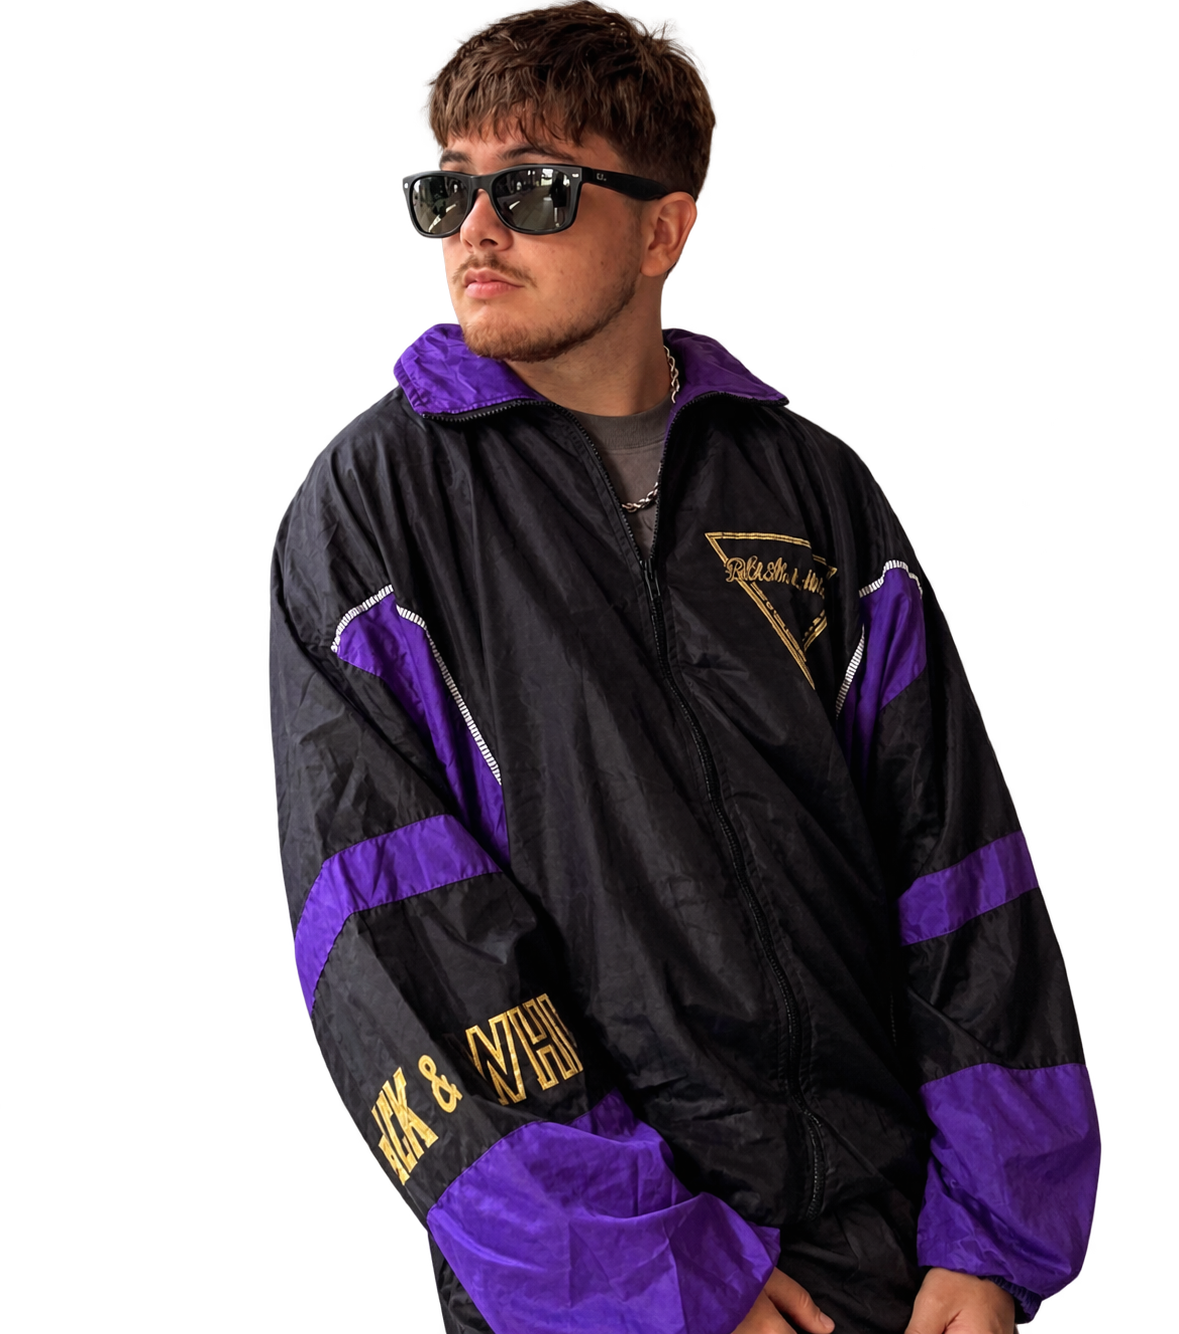
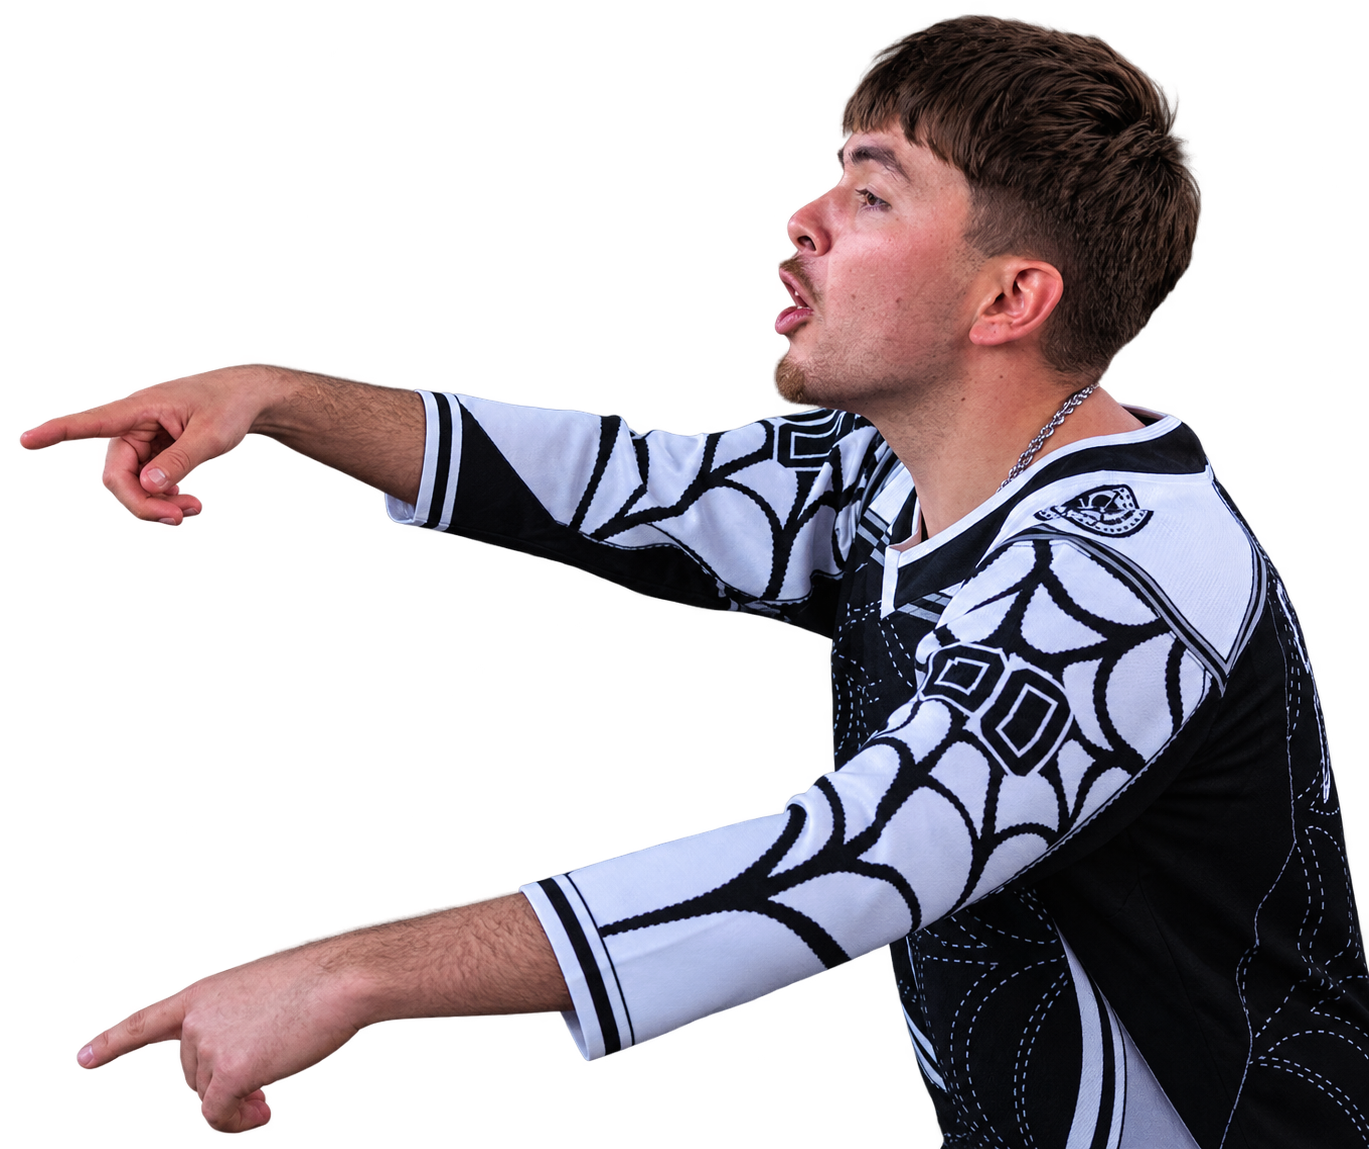
Add files via upload

diff --git a/index.html b/index.html
@@ -278,8 +278,8 @@
                 <span class="material-symbols-outlined text-[14px]">radio_button_unchecked</span> VOTO
               </span>
             </div>
-            <div class="relative w-full h-48 my-unit-sm flex items-end justify-center overflow-hidden rounded-lg bg-surface-container-lowest pt-2">
-              <img src="./Xiro_Silueta2.png" alt="Xiro" class="w-full h-full object-cover">
+            <div class="relative w-full h-auto sm:h-48 my-unit-sm flex items-end justify-center overflow-hidden rounded-lg bg-surface-container-lowest pt-2">
+              <img src="./Xiro_Silueta2.png" alt="Xiro" class="w-full h-full object-contain sm:object-cover">
             </div>
             <div class="relative z-10">
               <h3 class="font-headline-lg text-headline-lg text-primary uppercase tracking-wide">Xiro</h3>
@@ -295,8 +295,8 @@
                 <span class="material-symbols-outlined text-[14px]">radio_button_unchecked</span> VOTO
               </span>
             </div>
-            <div class="relative w-full h-48 my-unit-sm flex items-end justify-center overflow-hidden rounded-lg bg-surface-container-lowest pt-2">
-              <img src="./NachoRG_Silueta2.png" alt="Nacho RG" class="w-full h-full object-cover">
+            <div class="relative w-full h-auto sm:h-48 my-unit-sm flex items-end justify-center overflow-hidden rounded-lg bg-surface-container-lowest pt-2">
+              <img src="./NachoRG_Silueta2.png" alt="Nacho RG" class="w-full h-full object-contain sm:object-cover">
             </div>
             <div class="relative z-10">
               <h3 class="font-headline-lg text-headline-lg text-primary uppercase tracking-wide">Nacho RG</h3>
@@ -312,8 +312,8 @@
                 <span class="material-symbols-outlined text-[14px]">radio_button_unchecked</span> VOTO
               </span>
             </div>
-            <div class="relative w-full h-48 my-unit-sm flex items-end justify-center overflow-hidden rounded-lg bg-surface-container-lowest pt-2">
-              <img src="./Binario_Silueta.png" alt="BINARIO" class="w-full h-full object-cover">
+            <div class="relative w-full h-auto sm:h-48 my-unit-sm flex items-end justify-center overflow-hidden rounded-lg bg-surface-container-lowest pt-2">
+              <img src="./Binario_Silueta.png" alt="BINARIO" class="w-full h-full object-contain sm:object-cover">
             </div>
             <div class="relative z-10">
               <h3 class="font-headline-lg text-headline-lg text-primary uppercase tracking-wide">BINARIO</h3>
@@ -329,8 +329,8 @@
                 <span class="material-symbols-outlined text-[14px]">radio_button_unchecked</span> VOTO
               </span>
             </div>
-            <div class="relative w-full h-48 my-unit-sm flex items-end justify-center overflow-hidden rounded-lg bg-surface-container-lowest pt-2">
-              <img src="./Teno_Silueta2.png" alt="TENO" class="w-full h-full object-cover">
+            <div class="relative w-full h-auto sm:h-48 my-unit-sm flex items-end justify-center overflow-hidden rounded-lg bg-surface-container-lowest pt-2">
+              <img src="./Teno_Silueta2.png" alt="TENO" class="w-full h-full object-contain sm:object-cover">
             </div>
             <div class="relative z-10">
               <h3 class="font-headline-lg text-headline-lg text-primary uppercase tracking-wide">TENO</h3>
@@ -346,8 +346,8 @@
                 <span class="material-symbols-outlined text-[14px]">radio_button_unchecked</span> VOTO
               </span>
             </div>
-            <div class="relative w-full h-48 my-unit-sm flex items-end justify-center overflow-hidden rounded-lg bg-surface-container-lowest pt-2">
-              <img src="./Guspi_Silueta2.png" alt="GUSPI" class="w-full h-full object-cover">
+            <div class="relative w-full h-auto sm:h-48 my-unit-sm flex items-end justify-center overflow-hidden rounded-lg bg-surface-container-lowest pt-2">
+              <img src="./Guspi_Silueta2.png" alt="GUSPI" class="w-full h-full object-contain sm:object-cover">
             </div>
             <div class="relative z-10">
               <h3 class="font-headline-lg text-headline-lg text-primary uppercase tracking-wide">GUSPI</h3>
@@ -363,8 +363,8 @@
                 <span class="material-symbols-outlined text-[14px]">radio_button_unchecked</span> VOTO
               </span>
             </div>
-            <div class="relative w-full h-48 my-unit-sm flex items-end justify-center overflow-hidden rounded-lg bg-surface-container-lowest pt-2">
-              <img src="" alt="AFE" class="w-full h-full object-cover">
+            <div class="relative w-full h-auto sm:h-48 my-unit-sm flex items-end justify-center overflow-hidden rounded-lg bg-surface-container-lowest pt-2">
+              <img src="" alt="AFE" class="w-full h-full object-contain sm:object-cover">
             </div>
             <div class="relative z-10">
               <h3 class="font-headline-lg text-headline-lg text-primary uppercase tracking-wide">AFE</h3>
@@ -380,8 +380,8 @@
                 <span class="material-symbols-outlined text-[14px]">radio_button_unchecked</span> VOTO
               </span>
             </div>
-            <div class="relative w-full h-48 my-unit-sm flex items-end justify-center overflow-hidden rounded-lg bg-surface-container-lowest pt-2">
-              <img src="" alt="SILENCE" class="w-full h-full object-cover">
+            <div class="relative w-full h-auto sm:h-48 my-unit-sm flex items-end justify-center overflow-hidden rounded-lg bg-surface-container-lowest pt-2">
+              <img src="" alt="SILENCE" class="w-full h-full object-contain sm:object-cover">
             </div>
             <div class="relative z-10">
               <h3 class="font-headline-lg text-headline-lg text-primary uppercase tracking-wide">SILENCE</h3>
@@ -397,8 +397,8 @@
                 <span class="material-symbols-outlined text-[14px]">radio_button_unchecked</span> VOTO
               </span>
             </div>
-            <div class="relative w-full h-48 my-unit-sm flex items-end justify-center overflow-hidden rounded-lg bg-surface-container-lowest pt-2">
-              <img src="./XP_Silueta2.png" alt="XP" class="w-full h-full object-cover">
+            <div class="relative w-full h-auto sm:h-48 my-unit-sm flex items-end justify-center overflow-hidden rounded-lg bg-surface-container-lowest pt-2">
+              <img src="./XP_Silueta2.png" alt="XP" class="w-full h-full object-contain sm:object-cover">
             </div>
             <div class="relative z-10">
               <h3 class="font-headline-lg text-headline-lg text-primary uppercase tracking-wide">XP</h3>
@@ -414,8 +414,8 @@
                 <span class="material-symbols-outlined text-[14px]">radio_button_unchecked</span> VOTO
               </span>
             </div>
-            <div class="relative w-full h-48 my-unit-sm flex items-end justify-center overflow-hidden rounded-lg bg-surface-container-lowest pt-2">
-              <img src="./Bardu_Silueta.png" alt="BARDU" class="w-full h-full object-cover">
+            <div class="relative w-full h-auto sm:h-48 my-unit-sm flex items-end justify-center overflow-hidden rounded-lg bg-surface-container-lowest pt-2">
+              <img src="./Bardu_Silueta.png" alt="BARDU" class="w-full h-full object-contain sm:object-cover">
             </div>
             <div class="relative z-10">
               <h3 class="font-headline-lg text-headline-lg text-primary uppercase tracking-wide">BARDU</h3>
@@ -431,8 +431,8 @@
                 <span class="material-symbols-outlined text-[14px]">radio_button_unchecked</span> VOTO
               </span>
             </div>
-            <div class="relative w-full h-48 my-unit-sm flex items-end justify-center overflow-hidden rounded-lg bg-surface-container-lowest pt-2">
-              <img src="./DSM_Silueta2.png" alt="DSM" class="w-full h-full object-cover">
+            <div class="relative w-full h-auto sm:h-48 my-unit-sm flex items-end justify-center overflow-hidden rounded-lg bg-surface-container-lowest pt-2">
+              <img src="./DSM_Silueta2.png" alt="DSM" class="w-full h-full object-contain sm:object-cover">
             </div>
             <div class="relative z-10">
               <h3 class="font-headline-lg text-headline-lg text-primary uppercase tracking-wide">DSM</h3>
@@ -450,8 +450,8 @@
                 <span class="material-symbols-outlined text-[14px]">radio_button_unchecked</span> VOTO
               </span>
             </div>
-            <div class="relative w-full h-48 my-unit-sm flex items-end justify-center overflow-hidden rounded-lg bg-surface-container-lowest pt-2">
-              <img src="" alt="CLASIFICADO 1" class="w-full h-full object-cover">
+            <div class="relative w-full h-auto sm:h-48 my-unit-sm flex items-end justify-center overflow-hidden rounded-lg bg-surface-container-lowest pt-2">
+              <img src="" alt="CLASIFICADO 1" class="w-full h-full object-contain sm:object-cover">
             </div>
             <div class="relative z-10">
               <h3 class="font-headline-lg text-headline-lg text-primary uppercase tracking-wide">CLASIFICADO 1</h3>
@@ -469,8 +469,8 @@
                 <span class="material-symbols-outlined text-[14px]">radio_button_unchecked</span> VOTO
               </span>
             </div>
-            <div class="relative w-full h-48 my-unit-sm flex items-end justify-center overflow-hidden rounded-lg bg-surface-container-lowest pt-2">
-              <img src="" alt="CLASIFICADO 2" class="w-full h-full object-cover">
+            <div class="relative w-full h-auto sm:h-48 my-unit-sm flex items-end justify-center overflow-hidden rounded-lg bg-surface-container-lowest pt-2">
+              <img src="" alt="CLASIFICADO 2" class="w-full h-full object-contain sm:object-cover">
             </div>
             <div class="relative z-10">
               <h3 class="font-headline-lg text-headline-lg text-primary uppercase tracking-wide">CLASIFICADO 2</h3>
@@ -488,8 +488,8 @@
                 <span class="material-symbols-outlined text-[14px]">radio_button_unchecked</span> VOTO
               </span>
             </div>
-            <div class="relative w-full h-48 my-unit-sm flex items-end justify-center overflow-hidden rounded-lg bg-surface-container-lowest pt-2">
-              <img src="" alt="CLASIFICADO 3" class="w-full h-full object-cover">
+            <div class="relative w-full h-auto sm:h-48 my-unit-sm flex items-end justify-center overflow-hidden rounded-lg bg-surface-container-lowest pt-2">
+              <img src="" alt="CLASIFICADO 3" class="w-full h-full object-contain sm:object-cover">
             </div>
             <div class="relative z-10">
               <h3 class="font-headline-lg text-headline-lg text-primary uppercase tracking-wide">CLASIFICADO 3</h3>
@@ -507,8 +507,8 @@
                 <span class="material-symbols-outlined text-[14px]">radio_button_unchecked</span> VOTO
               </span>
             </div>
-            <div class="relative w-full h-48 my-unit-sm flex items-end justify-center overflow-hidden rounded-lg bg-surface-container-lowest pt-2">
-              <img src="" alt="CLASIFICADO 4" class="w-full h-full object-cover">
+            <div class="relative w-full h-auto sm:h-48 my-unit-sm flex items-end justify-center overflow-hidden rounded-lg bg-surface-container-lowest pt-2">
+              <img src="" alt="CLASIFICADO 4" class="w-full h-full object-contain sm:object-cover">
             </div>
             <div class="relative z-10">
               <h3 class="font-headline-lg text-headline-lg text-primary uppercase tracking-wide">CLASIFICADO 4</h3>
